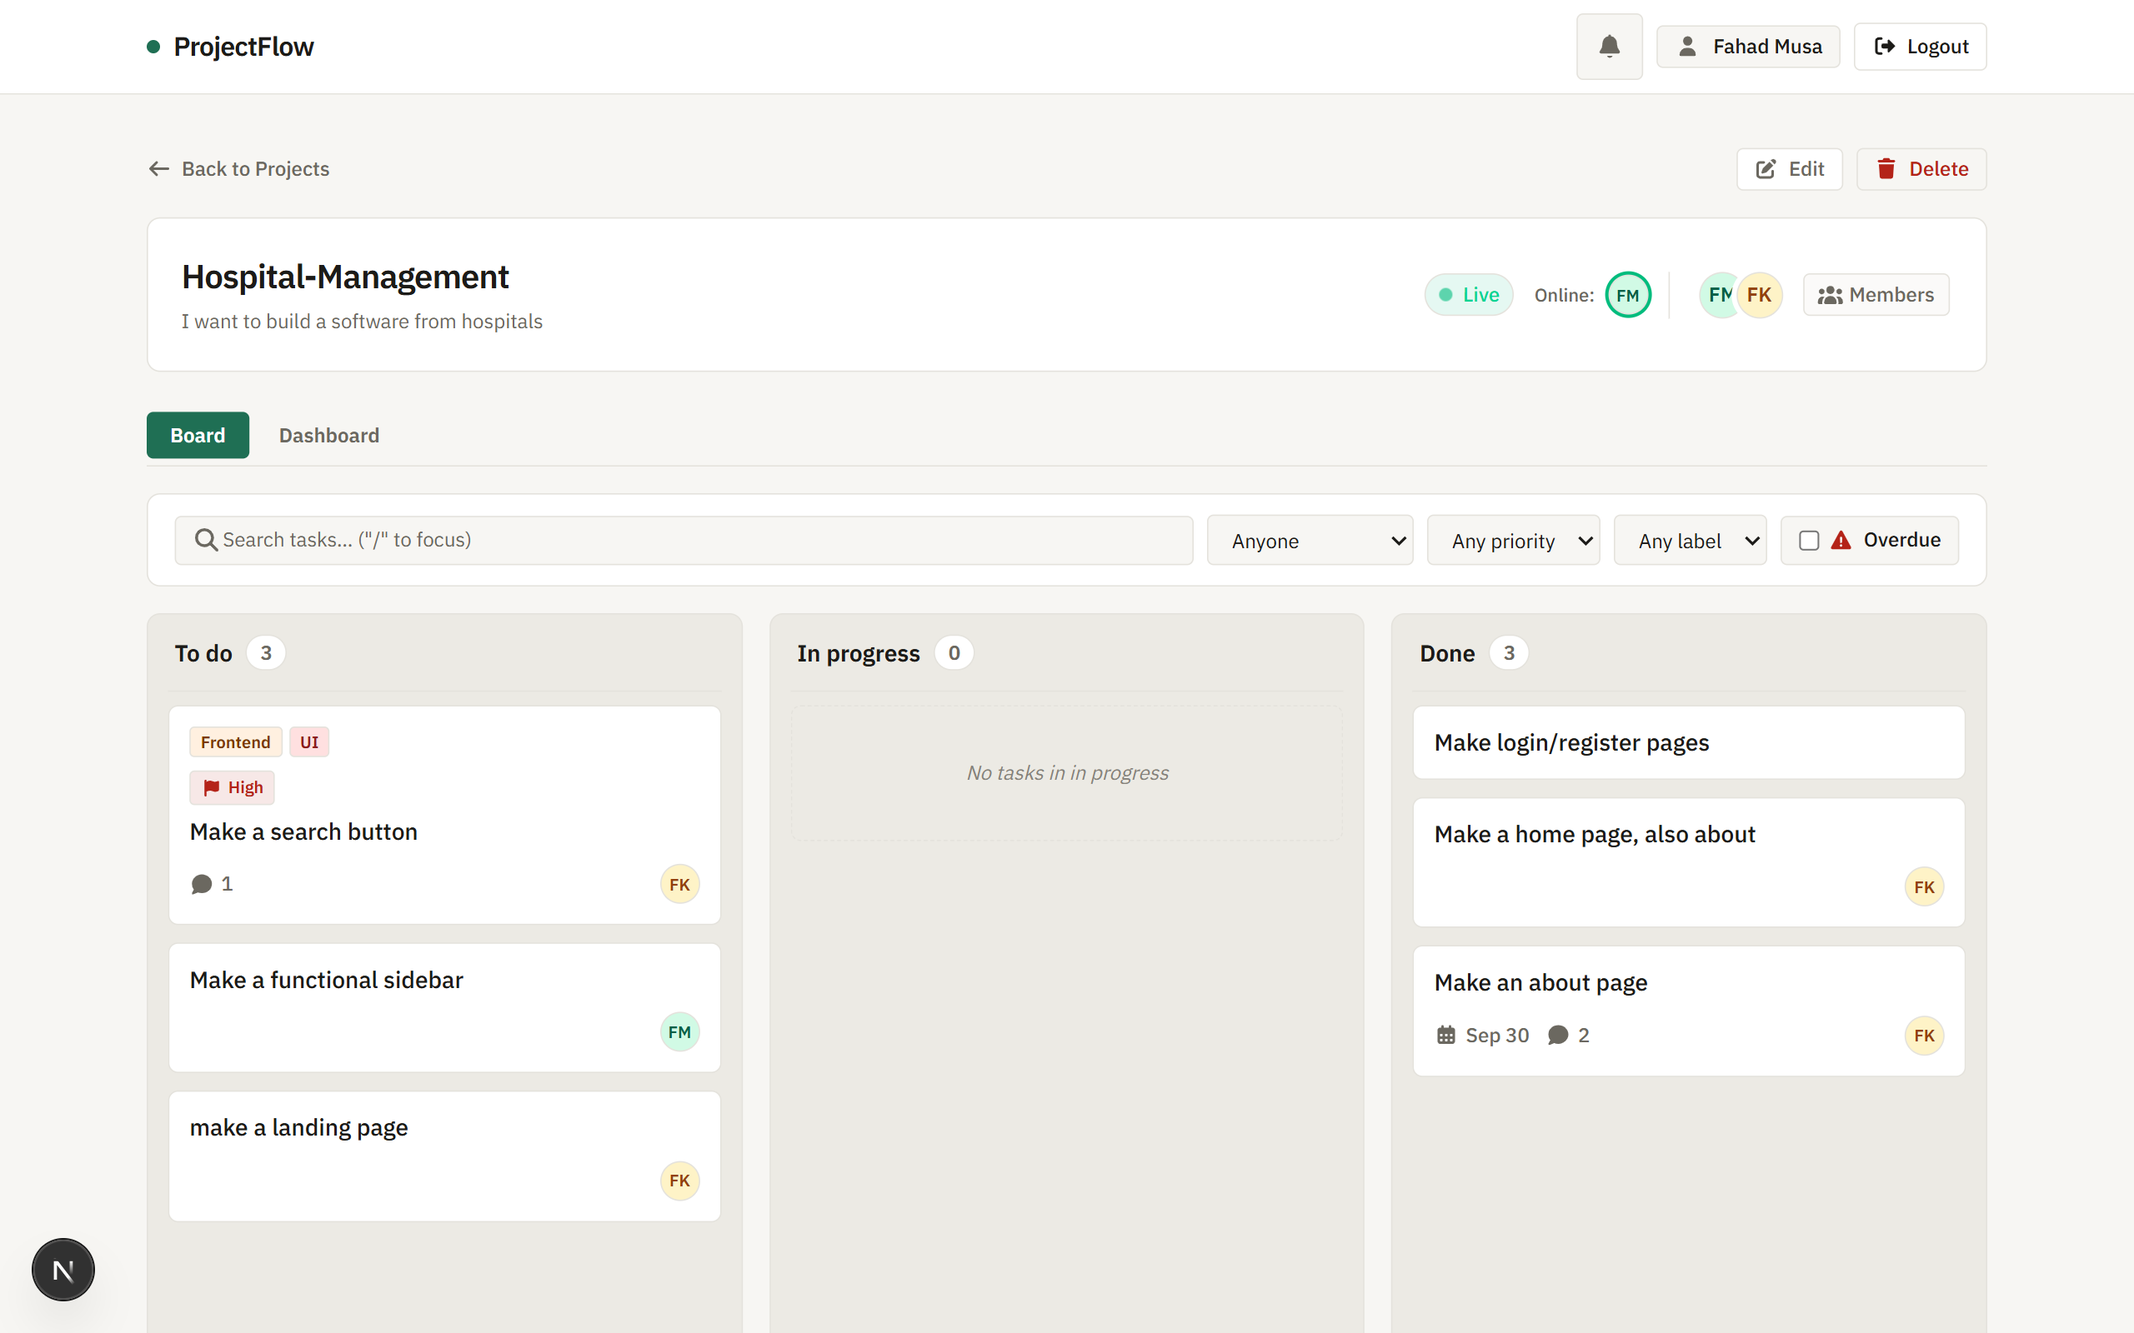
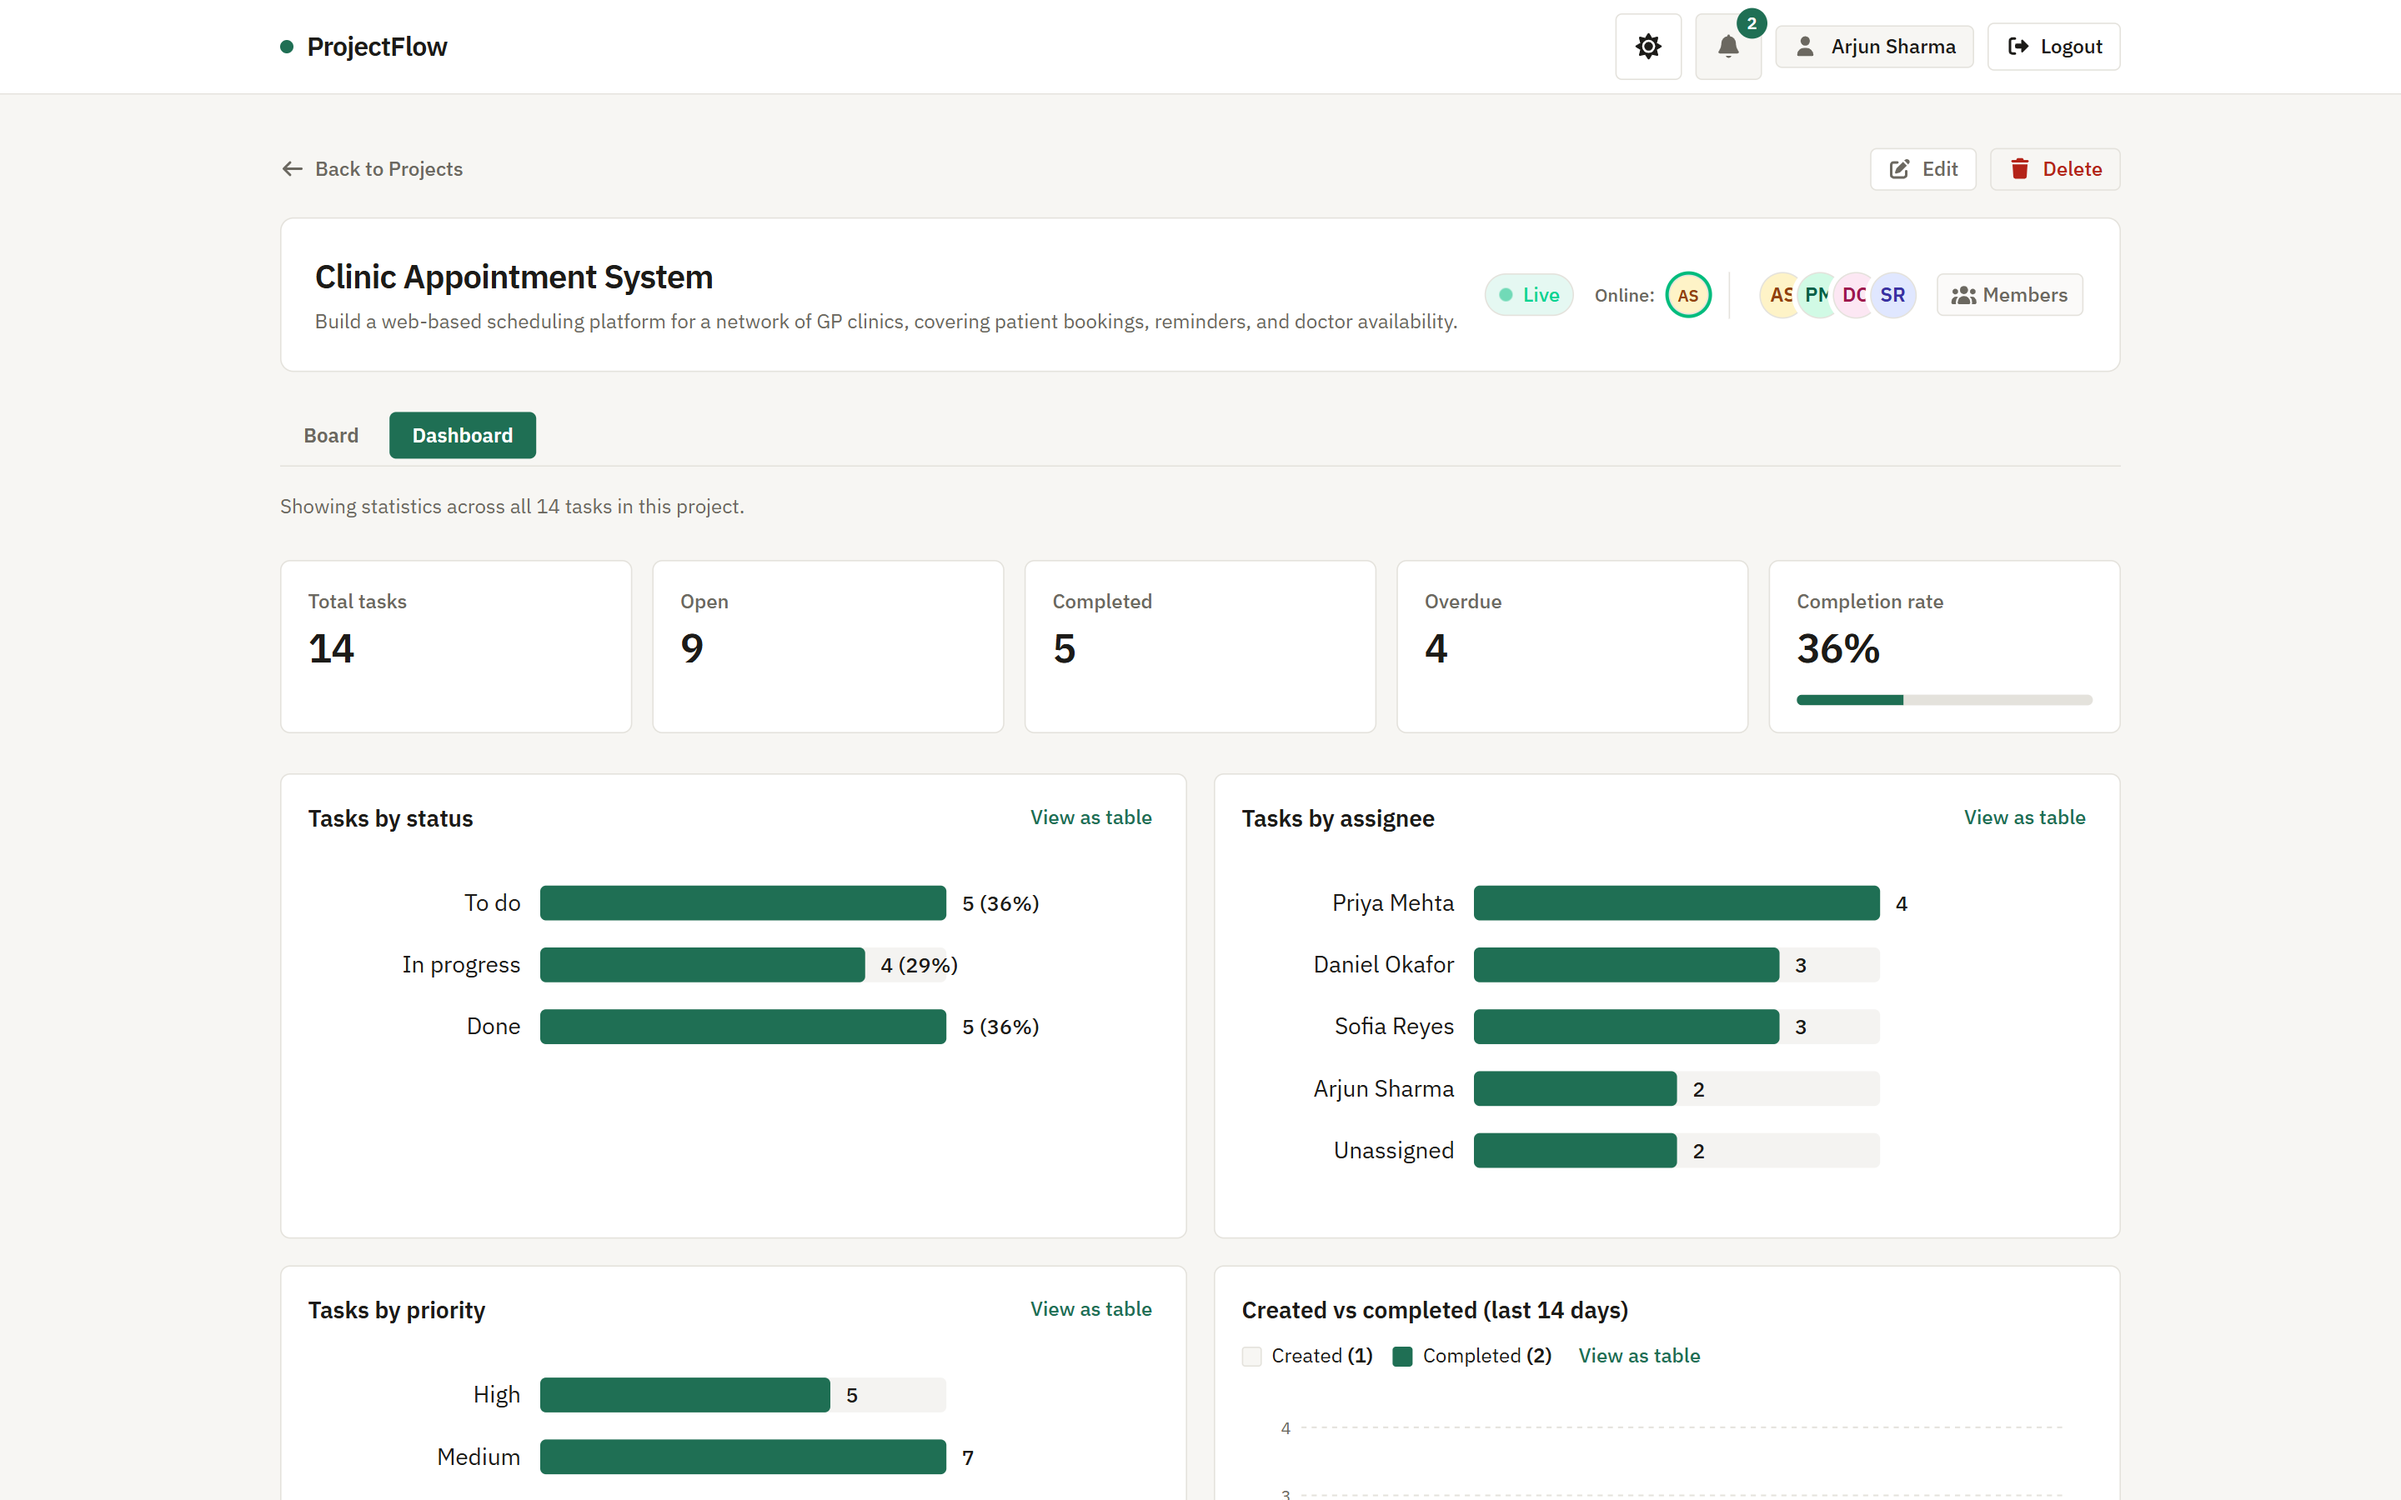
Show dark screenshots on the landing page in dark mode

diff --git a/src/components/landing/LandingFeatures.tsx b/src/components/landing/LandingFeatures.tsx
@@ -15,14 +15,26 @@ export function LandingFeatures() {
             </p>
           </div>
           <div className="rounded-[6px] border border-border bg-surface p-1 sm:p-2 overflow-hidden">
-            <Image
-              src="/screens/board.png"
-              alt="Realtime board view with live updates and presence across project members"
-              width={2560}
-              height={1600}
-              sizes="(max-width: 768px) 100vw, 550px"
-              className="w-full h-auto rounded-[4px] block"
-            />
+            <div className="screen-light">
+              <Image
+                src="/screens/board.png"
+                alt="Realtime board view with live updates and presence across project members"
+                width={2880}
+                height={1800}
+                sizes="(max-width: 768px) 100vw, 550px"
+                className="w-full h-auto rounded-[4px] block"
+              />
+            </div>
+            <div className="screen-dark">
+              <Image
+                src="/screens/board-dark.png"
+                alt="Realtime board view with live updates and presence across project members"
+                width={1440}
+                height={900}
+                sizes="(max-width: 768px) 100vw, 550px"
+                className="w-full h-auto rounded-[4px] block"
+              />
+            </div>
           </div>
         </div>
 
@@ -30,22 +42,34 @@ export function LandingFeatures() {
         <div className="grid grid-cols-1 md:grid-cols-2 gap-8 md:gap-12 items-center">
           <div className="order-2 md:order-1 flex justify-center">
             <div className="rounded-[6px] border border-border bg-surface p-1 sm:p-2 overflow-hidden max-w-[420px] w-full">
-              <Image
-                src="/screens/task.png"
-                alt="Task details dialog displaying priority, labels, assignee, due date, and team comments"
-                width={571}
-                height={795}
-                sizes="(max-width: 768px) 100vw, 420px"
-                className="w-full h-auto rounded-[4px] block"
-              />
+              <div className="screen-light">
+                <Image
+                  src="/screens/task.png"
+                  alt="Task details dialog displaying priority, labels, assignee, due date and team comments"
+                  width={892}
+                  height={1517}
+                  sizes="(max-width: 768px) 100vw, 420px"
+                  className="w-full h-auto rounded-[4px] block"
+                />
+              </div>
+              <div className="screen-dark">
+                <Image
+                  src="/screens/task-dark.png"
+                  alt="Task details dialog displaying priority, labels, assignee, due date and team comments"
+                  width={872}
+                  height={1489}
+                  sizes="(max-width: 768px) 100vw, 420px"
+                  className="w-full h-auto rounded-[4px] block"
+                />
+              </div>
             </div>
           </div>
           <div className="order-1 md:order-2">
             <h2 className="text-xl sm:text-2xl font-semibold tracking-tight text-text">
-              Task priority, labels, due dates, and discussion
+              Task priority, labels, due dates and discussion
             </h2>
             <p className="mt-3 text-muted-text leading-relaxed">
-              Open any card to set priorities, tag custom colored labels, define target dates, and assign teammates. Team members can post comments directly on the task to keep context in one place.
+              Open any card to set priorities, tag custom colored labels, define target dates and assign teammates. Team members can post comments directly on the task to keep context in one place.
             </p>
           </div>
         </div>
@@ -57,18 +81,30 @@ export function LandingFeatures() {
               Project dashboard with statistics
             </h2>
             <p className="mt-3 text-muted-text leading-relaxed">
-              Understand project health with clear metrics. Review task distribution across columns, identify overdue work, track completion rates, and observe team workload balance without manual spreadsheets.
+              Understand project health with clear metrics. Review task distribution across columns, identify overdue work, track completion rates and observe team workload balance without manual spreadsheets.
             </p>
           </div>
           <div className="rounded-[6px] border border-border bg-surface p-1 sm:p-2 overflow-hidden">
-            <Image
-              src="/screens/dashboard.png"
-              alt="Project dashboard charts and summary statistics showing completion progress and workload"
-              width={2560}
-              height={1600}
-              sizes="(max-width: 768px) 100vw, 550px"
-              className="w-full h-auto rounded-[4px] block"
-            />
+            <div className="screen-light">
+              <Image
+                src="/screens/dashboard.png"
+                alt="Project dashboard charts and summary statistics showing completion progress and workload"
+                width={2880}
+                height={1800}
+                sizes="(max-width: 768px) 100vw, 550px"
+                className="w-full h-auto rounded-[4px] block"
+              />
+            </div>
+            <div className="screen-dark">
+              <Image
+                src="/screens/dashboard-dark.png"
+                alt="Project dashboard charts and summary statistics showing completion progress and workload"
+                width={1440}
+                height={900}
+                sizes="(max-width: 768px) 100vw, 550px"
+                className="w-full h-auto rounded-[4px] block"
+              />
+            </div>
           </div>
         </div>
       </div>

diff --git a/src/components/landing/LandingAlsoIncluded.tsx b/src/components/landing/LandingAlsoIncluded.tsx
@@ -46,14 +46,26 @@ export function LandingAlsoIncluded() {
 
           <div className="flex justify-center">
             <div className="rounded-[6px] border border-border bg-surface p-1 sm:p-2 overflow-hidden max-w-[280px] w-full">
-              <Image
-                src="/screens/mobile.png"
-                alt="ProjectFlow mobile interface showing responsive project board on a phone screen"
-                width={1179}
-                height={2556}
-                sizes="(max-width: 768px) 280px, 280px"
-                className="w-full h-auto rounded-[4px] block"
-              />
+              <div className="screen-light">
+                <Image
+                  src="/screens/mobile.png"
+                  alt="ProjectFlow mobile interface showing responsive project board on a phone screen"
+                  width={1179}
+                  height={2556}
+                  sizes="(max-width: 768px) 280px, 280px"
+                  className="w-full h-auto rounded-[4px] block"
+                />
+              </div>
+              <div className="screen-dark">
+                <Image
+                  src="/screens/mobile-dark.png"
+                  alt="ProjectFlow mobile interface showing responsive project board on a phone screen"
+                  width={780}
+                  height={1687}
+                  sizes="(max-width: 768px) 280px, 280px"
+                  className="w-full h-auto rounded-[4px] block"
+                />
+              </div>
             </div>
           </div>
         </div>

diff --git a/src/components/landing/LandingHero.tsx b/src/components/landing/LandingHero.tsx
@@ -29,15 +29,27 @@ export function LandingHero() {
         </div>
 
         <div className="mt-10 sm:mt-12 rounded-[6px] border border-border bg-surface p-1 sm:p-2 overflow-hidden">
-          <Image
-            src="/screens/board.png"
-            alt="ProjectFlow kanban board showing columns for Todo, In Progress, Review, and Done with task cards"
-            width={2560}
-            height={1600}
-            priority
-            sizes="(max-width: 1100px) 100vw, 1100px"
-            className="w-full h-auto rounded-[4px] block"
-          />
+          <div className="screen-light">
+            <Image
+              src="/screens/board.png"
+              alt="ProjectFlow kanban board showing columns for Todo, In Progress, Review, and Done with task cards"
+              width={2880}
+              height={1800}
+              priority
+              sizes="(max-width: 1100px) 100vw, 1100px"
+              className="w-full h-auto rounded-[4px] block"
+            />
+          </div>
+          <div className="screen-dark">
+            <Image
+              src="/screens/board-dark.png"
+              alt="ProjectFlow kanban board showing columns for Todo, In Progress, Review, and Done with task cards"
+              width={1440}
+              height={900}
+              sizes="(max-width: 1100px) 100vw, 1100px"
+              className="w-full h-auto rounded-[4px] block"
+            />
+          </div>
         </div>
       </div>
     </section>

diff --git a/src/app/globals.css b/src/app/globals.css
@@ -171,3 +171,24 @@ body {
   scrollbar-color: var(--border) transparent;
 }
 
+/* Landing page screenshot theme switching */
+.screen-dark {
+  display: none;
+}
+
+:root[data-theme="dark"] .screen-light {
+  display: none;
+}
+:root[data-theme="dark"] .screen-dark {
+  display: block;
+}
+
+@media (prefers-color-scheme: dark) {
+  :root:not([data-theme]) .screen-light {
+    display: none;
+  }
+  :root:not([data-theme]) .screen-dark {
+    display: block;
+  }
+}
+
